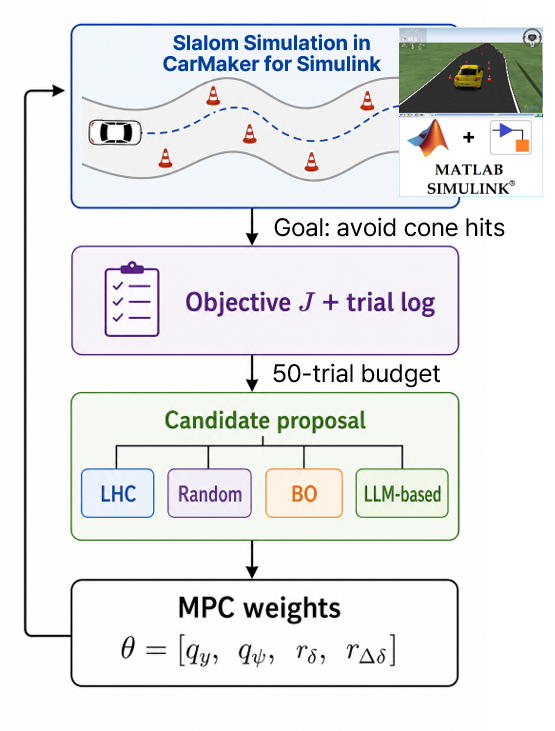
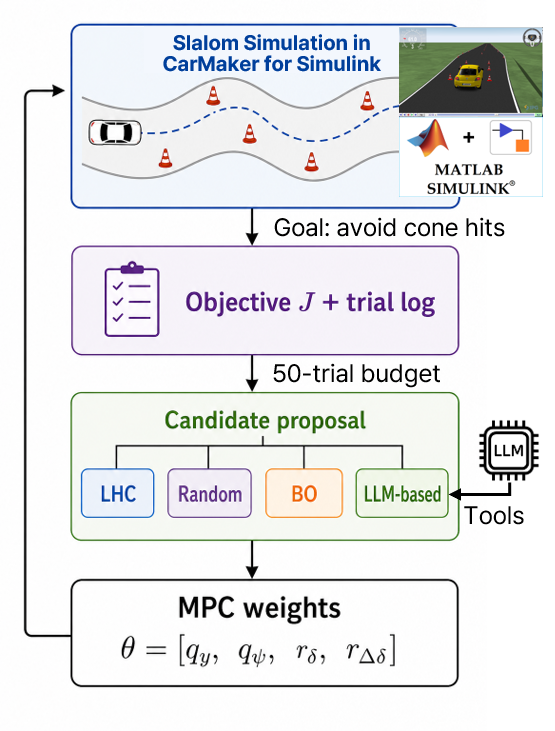
finalize ICCAS 2026 submission paper

Changed region(s): [[0.7964, 0.5718, 0.9802, 0.7223]]

diff --git a/Paper_AGI_ICCAS202601/ICCAS202601.tex b/Paper_AGI_ICCAS202601/ICCAS202601.tex
@@ -17,7 +17,7 @@
 
 \begin{document}
 
-\title{LLM-Based Search and Bayesian Optimization for\\ MPC Weight Tuning in Vehicle Slalom Simulation}
+\title{Simulator-in-the-Loop MPC Weight Tuning Using\\ LLM-Based Search and Bayesian Optimization}
 
 \author{Kyoungtae Ji${}^{1}$, Dongyeol Won${}^{1}$,  and Kyoungseok Han${}^{1*}$}
 
@@ -25,28 +25,11 @@
 Seoul, Korea (kyoungsh@hanyang.ac.kr) {\small${}^{*}$ Corresponding author}}
 
 \abstract{
-This paper presents a simulator-in-the-loop study of model predictive control
-(MPC) weight calibration for an autonomous vehicle slalom maneuver in
-CarMaker-Simulink. The controller structure, prediction model, horizons, and
-steering constraints are fixed, and the optimization target is a
-four-dimensional MPC weight vector for lateral tracking, heading response,
-steering effort, and steering smoothness. Each candidate is evaluated by a
-closed-loop simulation and converted into a simulation objective that penalizes
-road departure, counted cone contacts, and tracking error. Under a common
-50-trial budget, the study compares Latin-hypercube sampling, random search,
-Bayesian optimization (BO), and LLM-based search over five independent
-repetitions. The results show complementary behavior: LLM-based search reaches
-hit-free candidates in four of five repetitions and typically does so early,
-while BO finds the lowest objective value when its exploration reaches a useful
-region. A 4096-sample Sobol-based landscape analysis finds only seven hit-free
-samples, indicating that feasible weight regions are sparse in the log-scaled
-four-dimensional search space. These results suggest that LLM-based search is effective for rapid
-feasibility seeking, whereas numerical exploration remains important for
-discovering less intuitive weight regions.
+This paper presents a simulator-in-the-loop study of model predictive control (MPC) weight calibration for autonomous vehicle path-following using a high-fidelity closed-loop simulation environment. With the controller structure fixed, the optimization target is a four-dimensional MPC weight vector for lateral tracking, heading response, steering effort, and steering smoothness. Each candidate is evaluated by a simulation objective that penalizes road departure, counted cone contacts, and tracking error. Under a common 50-trial budget, the study compares Latin-hypercube sampling, random search, Bayesian optimization (BO), and LLM-based search over five independent repetitions. The results show complementary behavior: LLM-based search reaches hit-free candidates early in four of five repetitions, while BO finds the lowest objective value when its exploration reaches a useful region. A 4096-sample Sobol-based landscape analysis finds only seven hit-free samples, indicating that feasible weight regions are sparse. These results suggest that LLM-based search is effective for rapid feasibility seeking, whereas numerical exploration remains important for discovering less intuitive weight regions.
 }
 
 \keywords{
-Bayesian optimization, large language model, model predictive control, autonomous vehicle simulation, slalom maneuver
+Bayesian optimization, large language model, model predictive control, autonomous vehicle simulation, simulator-in-the-loop calibration
 }
 
 \maketitle
@@ -58,15 +41,15 @@ Bayesian optimization, large language model, model predictive control, autonomou
 
 Model predictive control (MPC) is widely used for vehicle control because it can handle multi-objective tracking and actuation constraints in a systematic way. In vehicle applications, control-oriented models are often kept simpler than the high-fidelity plant so that they can be used repeatedly inside an online optimizer or estimator \cite{rajamani2006vehicle,reina2017vehicle,maull2022optimizing}. However, even when the controller structure is fixed, its practical performance depends strongly on the selection of weighting parameters. In high-fidelity simulation, these parameters are often tuned by repeated trial-and-error, which is time-consuming and difficult to reproduce.
 
-This paper considers MPC weight tuning as a black-box optimization problem. A candidate weight vector is applied to the controller, one closed-loop slalom simulation is executed, and the resulting driving performance is summarized by a simulation objective. This formulation is suitable for Bayesian optimization (BO), especially when each evaluation is expensive and derivative information is unavailable. Similar simulation-based optimization ideas have been used in automotive calibration and racing-line computation, where candidate designs are evaluated by a simulator or numerical vehicle model rather than by analytic gradients \cite{jain2020computing,arya2019fully}.
+This paper considers MPC weight tuning as a black-box optimization problem. A candidate weight vector is applied to the controller, one closed-loop path-following simulation is executed, and the resulting driving performance is summarized by a simulation objective. This formulation is suitable for Bayesian optimization (BO), especially when each evaluation is expensive and derivative information is unavailable. Similar simulation-based optimization ideas have been used in automotive calibration and racing-line computation, where candidate designs are evaluated by a simulator or numerical vehicle model rather than by analytic gradients \cite{jain2020computing,arya2019fully}.
 
 Recent large language models (LLMs) have shown strong ability to summarize logs, reason over numerical trends, and suggest experimental directions. Recent studies have also investigated LLMs as assistants for BO and closed-loop scientific experimentation \cite{liu2024large,cisse2025language,cisse2026can}. In this work, the LLM is not treated as a direct steering controller. Instead, it is used as an optimization assistant that can interpret previous trials, diagnose failure patterns, and propose candidate regions or warm-start points. This preserves the MPC controller as the low-level control law while investigating whether LLM reasoning can improve the sample efficiency of simulator-based tuning.
 
-The central question is not whether language reasoning replaces numerical optimization. Instead, we ask how language-based calibration behaves differently from BO in a physical closed-loop tuning task. The slalom benchmark is useful for this comparison because feasible hit-free regions can be narrow and sometimes counterintuitive in the controller-weight space. This creates a setting where intuitive LLM proposals may reach good solutions quickly, while algorithmic exploration may still be needed to reveal separated or non-intuitive local regions.
+The central question is not whether language reasoning replaces numerical optimization. Instead, we ask how language-based calibration behaves differently from BO in a physical closed-loop tuning task. A constrained vehicle path-following benchmark is useful for this comparison because feasible contact-free regions can be narrow and sometimes counterintuitive in the controller-weight space. This creates a setting where intuitive LLM proposals may reach good solutions quickly, while algorithmic exploration may still be needed to reveal separated or non-intuitive local regions.
 
 The contributions of this paper are as follows:
 \begin{itemize}
-    \item A vehicle slalom MPC weight-tuning task is formulated as a simulator-in-the-loop black-box optimization problem, with a Sobol-based landscape analysis used to examine the sparsity of hit-free candidates in the four-dimensional log-scaled weight space.
+    \item A vehicle path-following MPC weight-tuning task is formulated as a simulator-in-the-loop black-box optimization problem, with a Sobol-based landscape analysis used to examine the sparsity of hit-free candidates in the four-dimensional log-scaled weight space.
     \item A matched repeated-experiment evaluation is conducted for LHC, random search, BO, and LLM-based search under the same search range, simulation objective, and 50-trial budget.
     \item The experiments characterize how LLM-based search and BO explore different regions of the MPC weight space under a limited simulation budget.
 \end{itemize}
@@ -97,7 +80,7 @@ u = \delta_{\mathrm{sw}}.
 \label{eq:control_input}
 \end{equation}
 Note that longitudinal speed control is not included in the optimization. In the
-closed-loop evaluation, the plant is the high-fidelity CarMaker vehicle model,
+closed-loop evaluation, the plant is a high-fidelity vehicle simulation model,
 whereas the bicycle model is used only as the MPC prediction model.
 
 The continuous-time model is written as
@@ -290,8 +273,8 @@ workflow.}
 
 Figure~\ref{fig:overview} shows the common evaluation loop used by all search
 methods. A candidate-selection method proposes an MPC weight vector, the weights
-are applied to the Simulink MPC controller, and the CarMaker-Simulink
-closed-loop slalom simulation returns an objective value and diagnostic trial
+are applied to the MPC controller, and the high-fidelity closed-loop
+path-following simulation returns an objective value and diagnostic trial
 log. The result is appended to the history and used by the next
 candidate-selection step.
 
@@ -357,7 +340,9 @@ search space.
 \subsection{Slalom Simulation Scenario}
 \label{subsec:scenario}
 
-The benchmark scenario is derived from the CarMaker Nominal Slalom example. The
+The general simulator-in-the-loop calibration workflow is instantiated in this
+study using an IPG CarMaker-Simulink co-simulation benchmark. The benchmark
+scenario is derived from the CarMaker Nominal Slalom example. The
 reference path is taken from the Manual Drive Maneuver trajectory of the base
 CarMaker slalom example, which completes the maneuver without cone contacts. To
 make the tuning task more discriminative, the target speed is increased by 5\%
@@ -520,9 +505,7 @@ pure objective minimizer.
 		\includegraphics[width=\linewidth]{figures/fig3_random_contact_zoom.pdf}\\[-0.5mm]
 		\footnotesize (b) Zoom around the random-search cone contact
 	\end{minipage}
-	\caption{Best-run trajectories for the compared methods. Red triangles denote
-		slalom cones, and the red dashed rectangle in (a) marks the region enlarged
-		in (b).}
+	\caption{Best-run trajectories for the compared methods.}
 	\label{fig:best_trajectory}
 \end{figure}
 
@@ -536,10 +519,8 @@ The BO trajectory is consistent with the lower tracking metrics in
 Table~\ref{tab:best_trials}. Figure~\ref{fig:best_trajectory}(b) highlights the
 counted cone-contact region for random search and shows that visually plausible
 tracking can still be unacceptable when the trajectory approaches a cone too
-closely. The difference between the random-search trajectory and the hit-free
-trajectories is small in the plotted lateral position, but it changes the
-discrete cone-contact outcome. This sensitivity makes the objective difficult
-for purely space-filling search under a small simulation budget.
+closely. This sensitivity makes the objective difficult for purely
+space-filling search under a small simulation budget.
 
 \subsection{Hit-Free Weight-Space Patterns}
 \label{subsec:weight_space_patterns}
@@ -554,10 +535,7 @@ local regions of the objective landscape.
 \centering
 \includegraphics[width=0.98\textwidth]{figures/fig4_hit_free_regions.pdf}
 \caption{Representative projections of hit-free candidates in the log-scaled MPC
-weight space. The green shaded ellipse denotes the empirical high-heading region
-visited by LLM-based search, while LHC and BO are shown as sparse hit-free
-candidates. Black center markers R1--R6 denote representative candidates selected
-for interpretation.}
+weight space. Markers R1--R6 denote representative solutions.}
 \label{fig:local_regions}
 \end{figure*}
 
@@ -621,16 +599,27 @@ hit-free regions are sparse in the four-dimensional log-scaled weight space.
 \section{Conclusion}
 \label{sec:conclusion}
 
-This paper studied simulator-in-the-loop MPC weight calibration for a CarMaker
-slalom maneuver under a common 50-trial budget. The results show complementary
-search behavior: LLM-based search rapidly reaches hit-free controller settings,
-whereas BO can discover lower-objective and less intuitive
+This paper studied simulator-in-the-loop MPC weight calibration for autonomous
+vehicle path-following under a common 50-trial budget. The results show
+complementary search behavior: LLM-based search rapidly reaches hit-free
+controller settings, whereas BO can discover lower-objective and less intuitive
 weight regions when its exploration succeeds. The Sobol-based landscape analysis
 further indicates that hit-free weights occupy sparse regions in the
-four-dimensional log-scaled search space. Because the present study uses five repetitions of one nominal
-slalom scenario and one LLM configuration, future work will evaluate larger
-repetition sets, additional maneuvers and friction conditions, model-dependent
-LLM proposal bias, and exploration-preserving LLM--BO designs.
+four-dimensional log-scaled search space. The workflow was evaluated using a
+CarMaker-Simulink slalom benchmark as a representative high-fidelity closed-loop
+vehicle simulation case. Future work will evaluate broader scenarios, friction
+conditions, model-dependent LLM proposal bias, and exploration-preserving
+LLM--BO designs.
+
+\section*{ACKNOWLEDGEMENT}
+
+This work was supported partly by the Korea Agency for Infrastructure
+Technology Advancement (KAIA) grant funded by the Ministry of Land,
+Infrastructure and Transport (MOLIT) of the Korean government (Grant
+RS-2026-25522607), and partly by the Institute of Information \&
+communications Technology Planning \& Evaluation (IITP) grant funded by the
+Korea government (MSIT) (No. RS-2025-25422680, Meta cognitive AGI Framework and
+its Applications).
 
 \bibliographystyle{ieeetr}
 \bibliography{ref}
